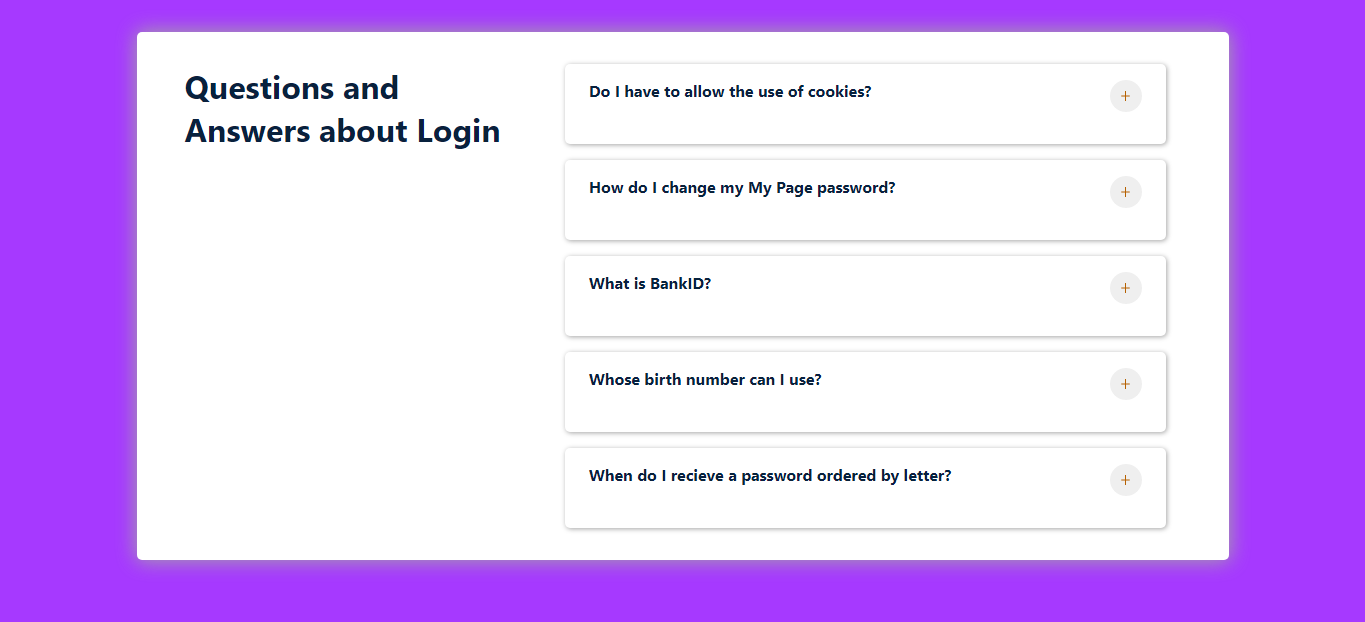
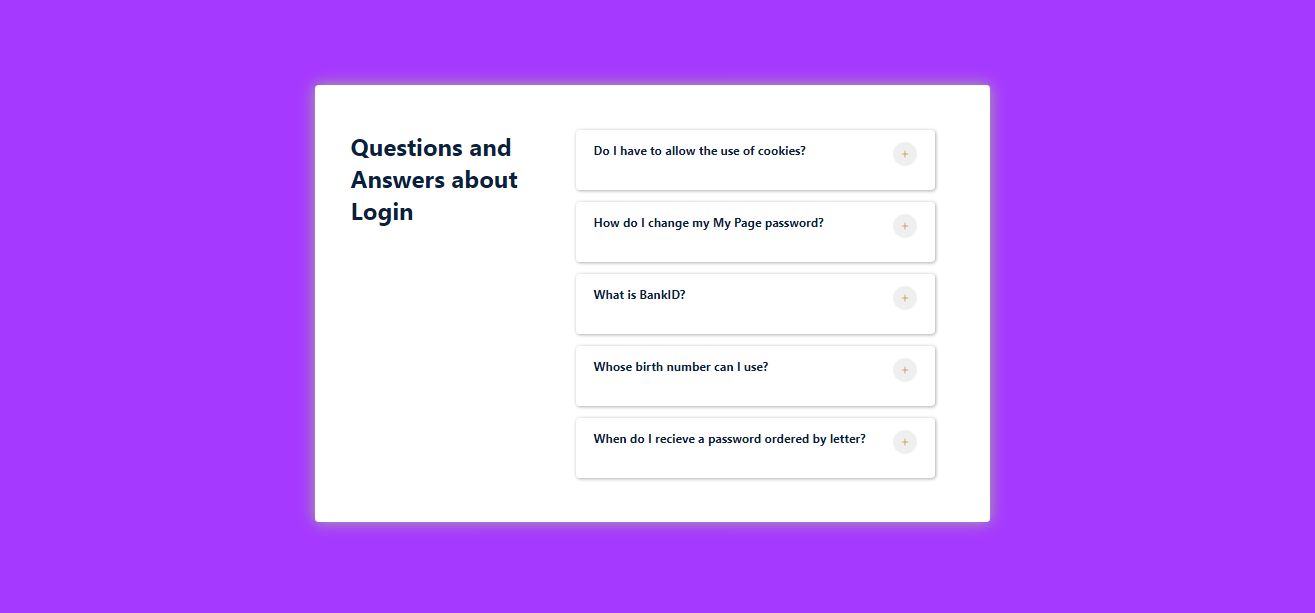
css update

diff --git a/02-tours-app/src/index.css b/02-tours-app/src/index.css
@@ -66,8 +66,6 @@ body {
 /* TOUR MAIN */
 .tours-container {
 	width: 100vw;
-	width: 100vw;
-	min-height: 100vh;
 	display: grid;
 	justify-items: center;
 	gap: 2rem;
@@ -103,7 +101,6 @@ body {
 }
 .tour-card-container {
 	width: 70vw;
-	/* height: 300px; */
 	max-width: 600px;
 	padding-bottom: 1.5rem;
 	display: flex;
@@ -111,13 +108,11 @@ body {
 	justify-content: center;
 	align-items: center;
 	gap: 2rem;
-	/* padding: 2rem; */
 	box-shadow: 1px 1px 10px -1px var(--primary-color-400);
 }
 .tour-img {
 	width: 100%;
 	object-fit: cover;
-	/* object-position: center; */
 	height: 300px;
 }
 .tour-header {

diff --git a/04-accordion/src/index.css b/04-accordion/src/index.css
@@ -32,16 +32,18 @@ body {
 		sans-serif;
 	-webkit-font-smoothing: antialiased;
 	-moz-osx-font-smoothing: grayscale;
+	display: flex;
+	align-items: center;
+	justify-content: center;
+	min-height: 100vh;
 }
 .main-container {
 	display: grid;
 	min-height: 70vh;
 	width: 80vw;
+	max-width: 900px;
 	grid-template-columns: 1fr;
-	margin: auto;
-	margin-top: 2rem;
-	margin-bottom: 2rem;
-	justify-items: center;
+	place-content: center;
 	background-color: var(--primary-color-100);
 	box-shadow: var(--box-shadow-500);
 	border-radius: 5px;
